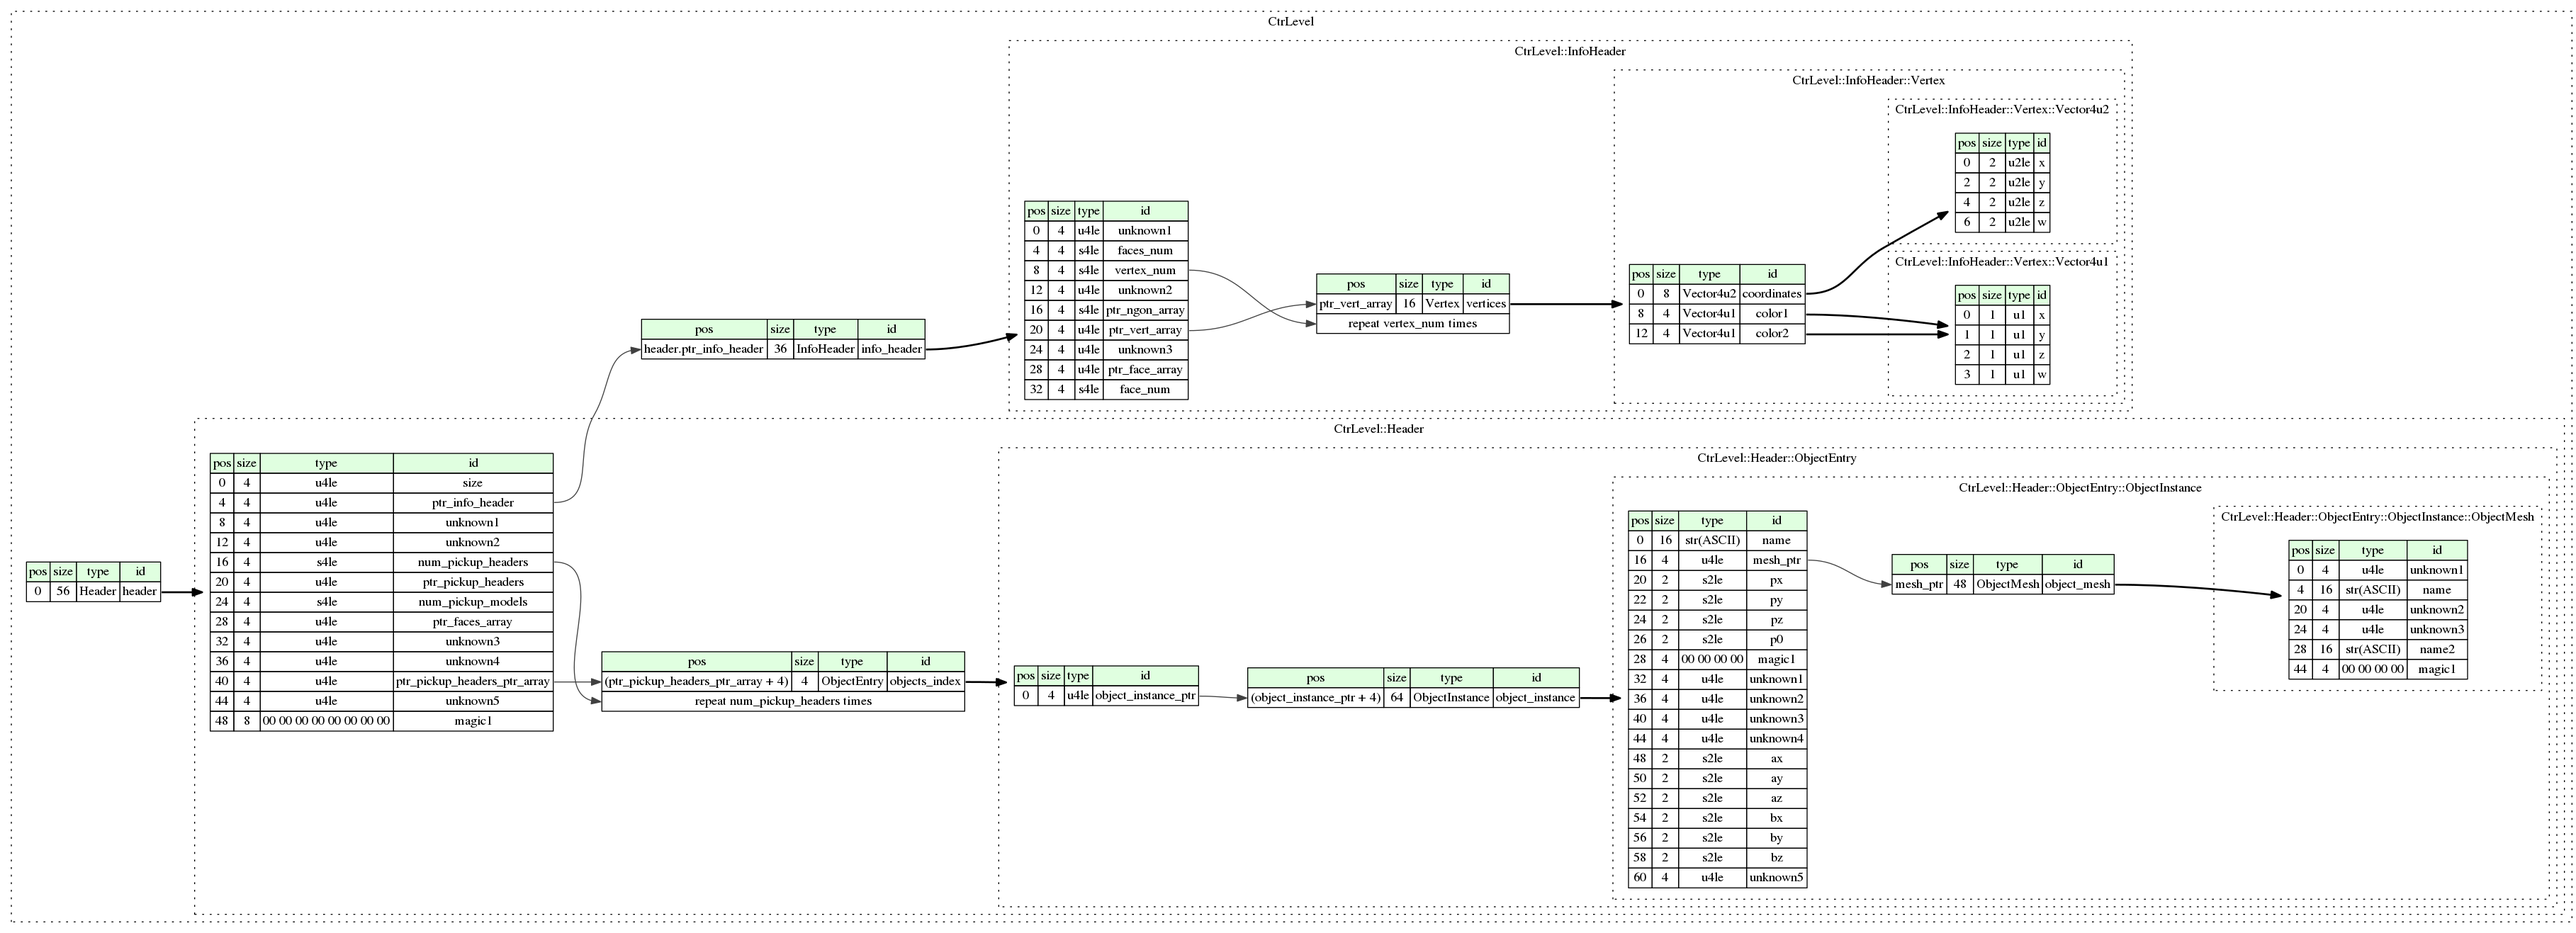
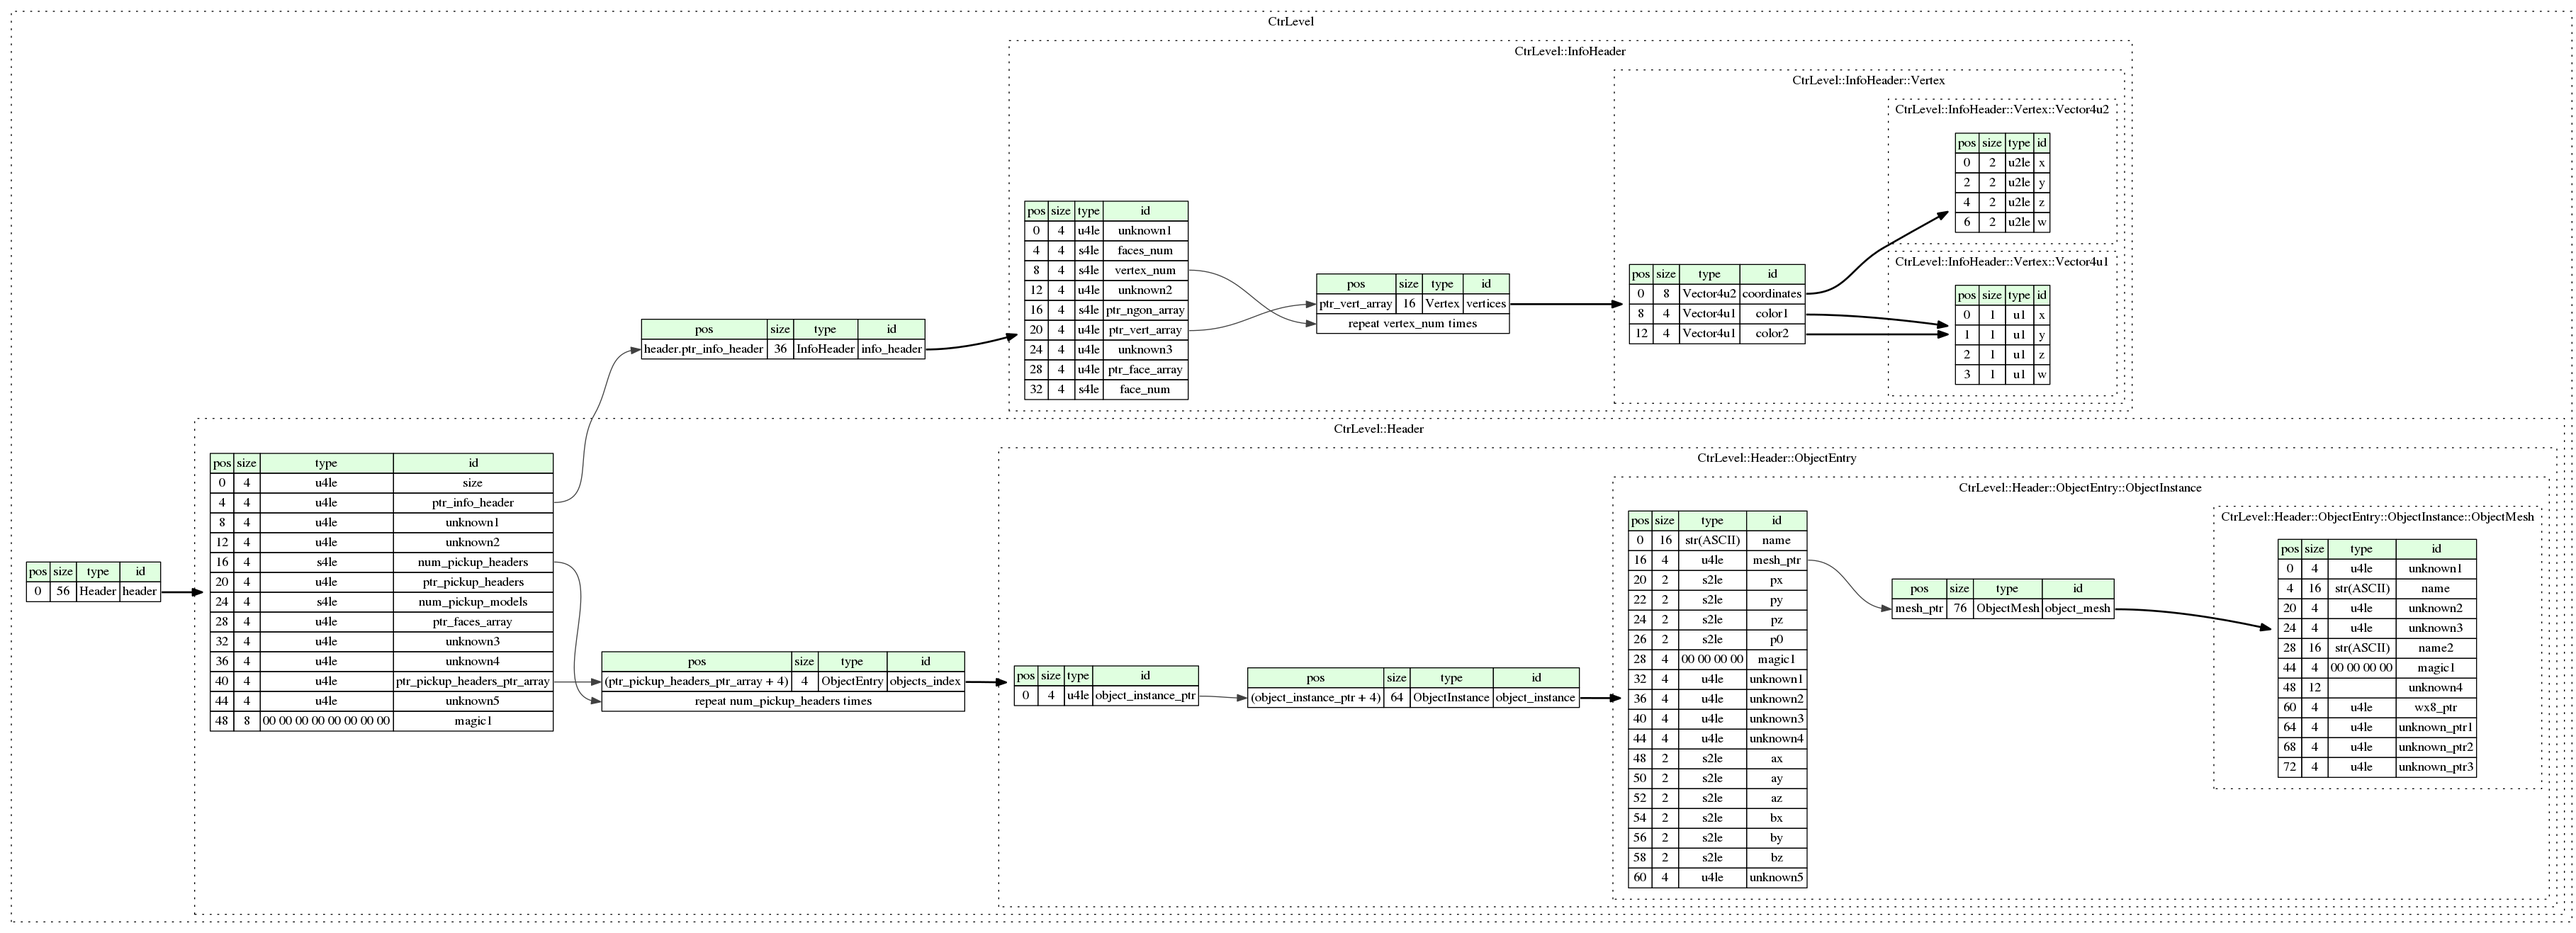
more headers

Changed region(s): [[0.8704, 0.5604, 0.9637, 0.8405], [0.715, 0.5915, 0.8393, 0.6538]]

diff --git a/csharp/ctr/CtrLevel.cs b/csharp/ctr/CtrLevel.cs
@@ -133,6 +133,11 @@ namespace ctr
                             _unknown3 = m_io.ReadU4le();
                             _name2 = System.Text.Encoding.GetEncoding("ASCII").GetString(KaitaiStream.BytesTerminate(m_io.ReadBytes(16), 0, false));
                             _magic1 = m_io.EnsureFixedContents(new byte[] { 0, 0, 0, 0 });
+                            _unknown4 = m_io.ReadBytes(12);
+                            _wx8Ptr = m_io.ReadU4le();
+                            _unknownPtr1 = m_io.ReadU4le();
+                            _unknownPtr2 = m_io.ReadU4le();
+                            _unknownPtr3 = m_io.ReadU4le();
                         }
                         private uint _unknown1;
                         private string _name;
@@ -140,6 +145,11 @@ namespace ctr
                         private uint _unknown3;
                         private string _name2;
                         private byte[] _magic1;
+                        private byte[] _unknown4;
+                        private uint _wx8Ptr;
+                        private uint _unknownPtr1;
+                        private uint _unknownPtr2;
+                        private uint _unknownPtr3;
                         private CtrLevel m_root;
                         private CtrLevel.Header.ObjectEntry.ObjectInstance m_parent;
                         public uint Unknown1 { get { return _unknown1; } }
@@ -148,6 +158,11 @@ namespace ctr
                         public uint Unknown3 { get { return _unknown3; } }
                         public string Name2 { get { return _name2; } }
                         public byte[] Magic1 { get { return _magic1; } }
+                        public byte[] Unknown4 { get { return _unknown4; } }
+                        public uint Wx8Ptr { get { return _wx8Ptr; } }
+                        public uint UnknownPtr1 { get { return _unknownPtr1; } }
+                        public uint UnknownPtr2 { get { return _unknownPtr2; } }
+                        public uint UnknownPtr3 { get { return _unknownPtr3; } }
                         public CtrLevel M_Root { get { return m_root; } }
                         public CtrLevel.Header.ObjectEntry.ObjectInstance M_Parent { get { return m_parent; } }
                     }

diff --git a/python/ctr/ctr_level.py b/python/ctr/ctr_level.py
@@ -94,6 +94,11 @@ class CtrLevel(KaitaiStruct):
                         self.unknown3 = self._io.read_u4le()
                         self.name2 = (KaitaiStream.bytes_terminate(self._io.read_bytes(16), 0, False)).decode(u"ASCII")
                         self.magic1 = self._io.ensure_fixed_contents(b"\x00\x00\x00\x00")
+                        self.unknown4 = self._io.read_bytes(12)
+                        self.wx8_ptr = self._io.read_u4le()
+                        self.unknown_ptr1 = self._io.read_u4le()
+                        self.unknown_ptr2 = self._io.read_u4le()
+                        self.unknown_ptr3 = self._io.read_u4le()
 
 
                 @property
